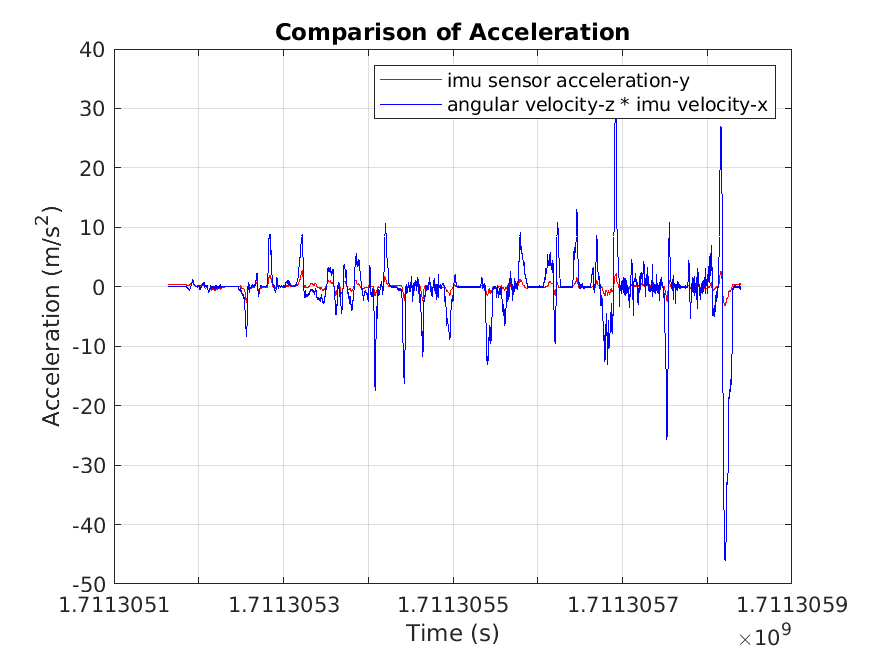
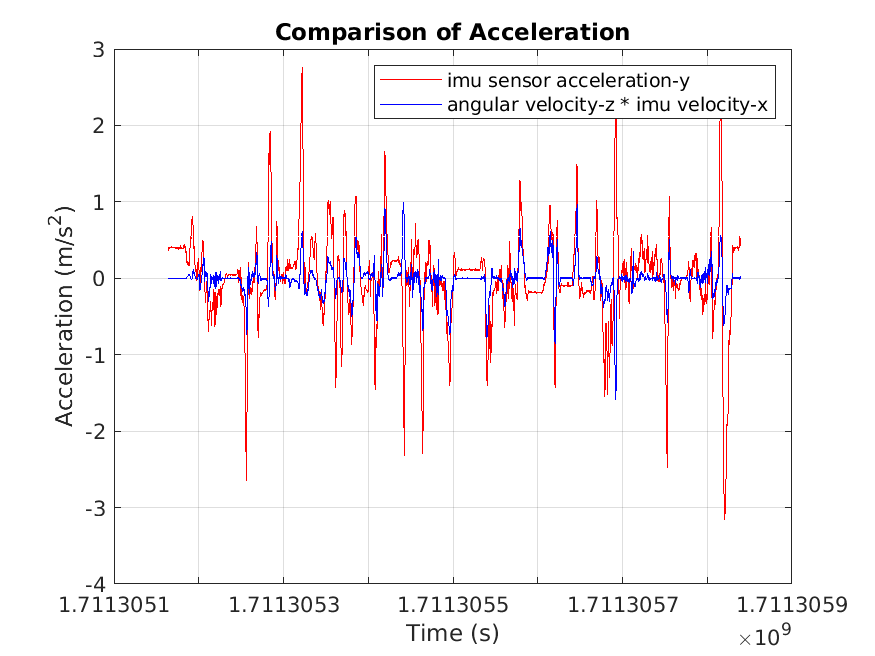
Correct accel_x with high pass and stationary filter

diff --git a/integration_ws/analysis/deadReckoning.m b/integration_ws/analysis/deadReckoning.m
@@ -148,6 +148,41 @@ plot_filtered_heading(imu_data, imu_csv_filepath, plot_path);
 
 
 % Plot 4) Correct Accel data.
+
+% Correction 1: high pass filter
+high_order = 1;
+high_cutoff = 0.01;  % desired cutoff frequency of the filter, Hz
+high_fs = 40;          % sampling frequency
+
+% Apply the high-pass filter to the gyro data
+imu_data.accel_x = butter_highpass_filter(imu_data.accel_x, high_cutoff, high_fs, high_order);
+
+% Correction 2: Correct stationary
+threshold_range = [-0.2, 0.2]
+i = 1
+while i <= length(imu_data.accel_x)
+    if imu_data.accel_x(i) >= threshold_range(1) && imu_data.accel_x(i) <= threshold_range(2)
+        % Find the index that corresponds to the end of the 5-second window from point i
+        end_window_index = find(time_stamps >= time_stamps(i) + duration, 1);
+        
+        % Check if we have reached the end of the time_stamps array
+        if isempty(end_window_index) 
+            end_window_index = length(imu_data.accel_x);
+        end
+        
+        % Check if all the values within the window are within the threshold range
+        if all(imu_data.accel_x(i:end_window_index) >= threshold_range(1) & imu_data.accel_x(i:end_window_index) <= threshold_range(2))
+            % Set all values within the window to zero
+            imu_data.accel_x(i:end_window_index) = 0;
+            
+            % Jump to the point right after the window
+            i = end_window_index;
+        end
+    end
+    i = i + 1; % Move to the next data point
+end
+
+% Correction 3:
 % Calculate the mean acceleration over the entire dataset.
 mean_accel_x = mean(imu_data.accel_x);
 
@@ -157,6 +192,11 @@ corrected_accel_x = imu_data.accel_x - mean_accel_x;
 % Integrate the corrected acceleration to get the corrected velocity.
 imu_velocity_x = cumtrapz(imu_data.stamp, corrected_accel_x);
 imu_velocity_x = lowpass(imu_velocity_x, 0.5, 40);
+for k = 1:length(imu_velocity_x)
+    if imu_velocity_x(k) < 0
+        imu_velocity_x(k) = 0; % Set negative velocities to zero
+    end
+end
 
 % Plot the corrected velocity x
 figure('Position', [100, 100, figWidthPixels, figHeightPixels]);
@@ -205,6 +245,7 @@ ylabel('Velocity (m/s)');
 grid on;
 full_path = fullfile(plot_path, 'plot_5_gps_velocity.png');
 saveas(gcf, full_path);
+
 
 
 % Plot 6) Plot GPS position vs Position obtained from Dead-Reckoning.
